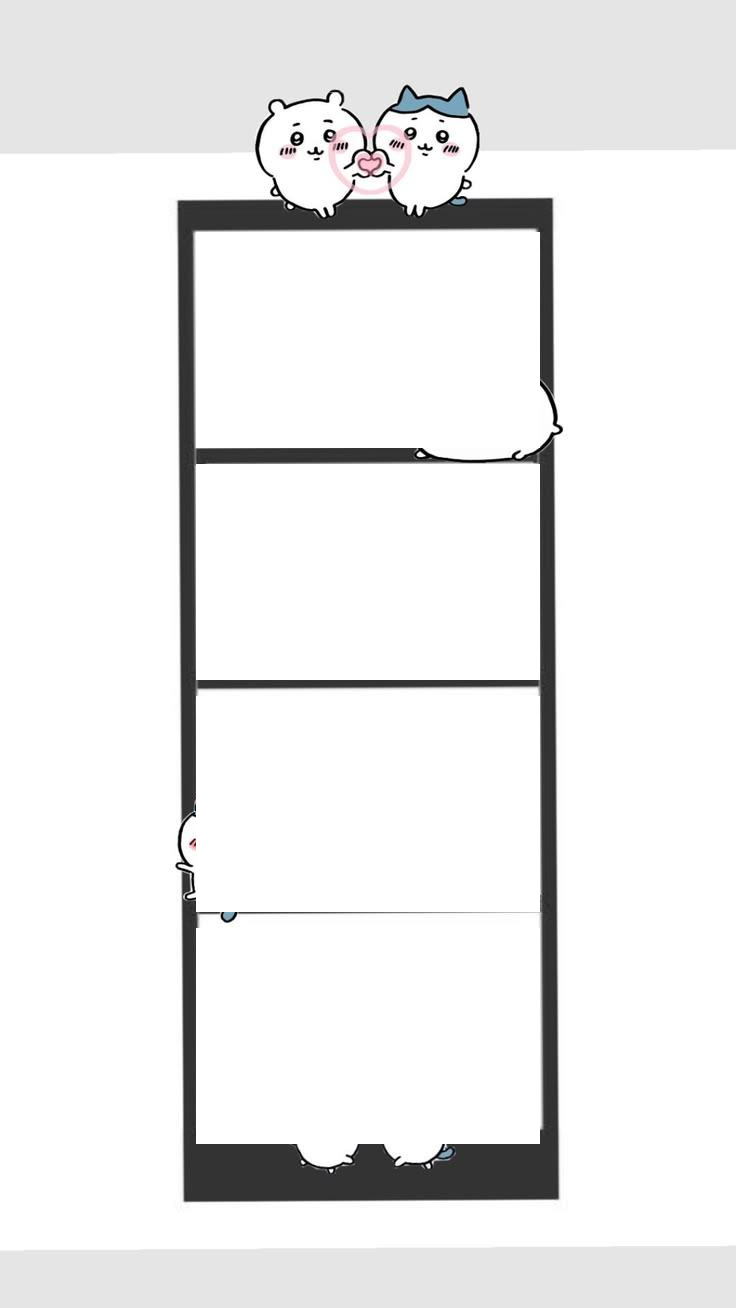
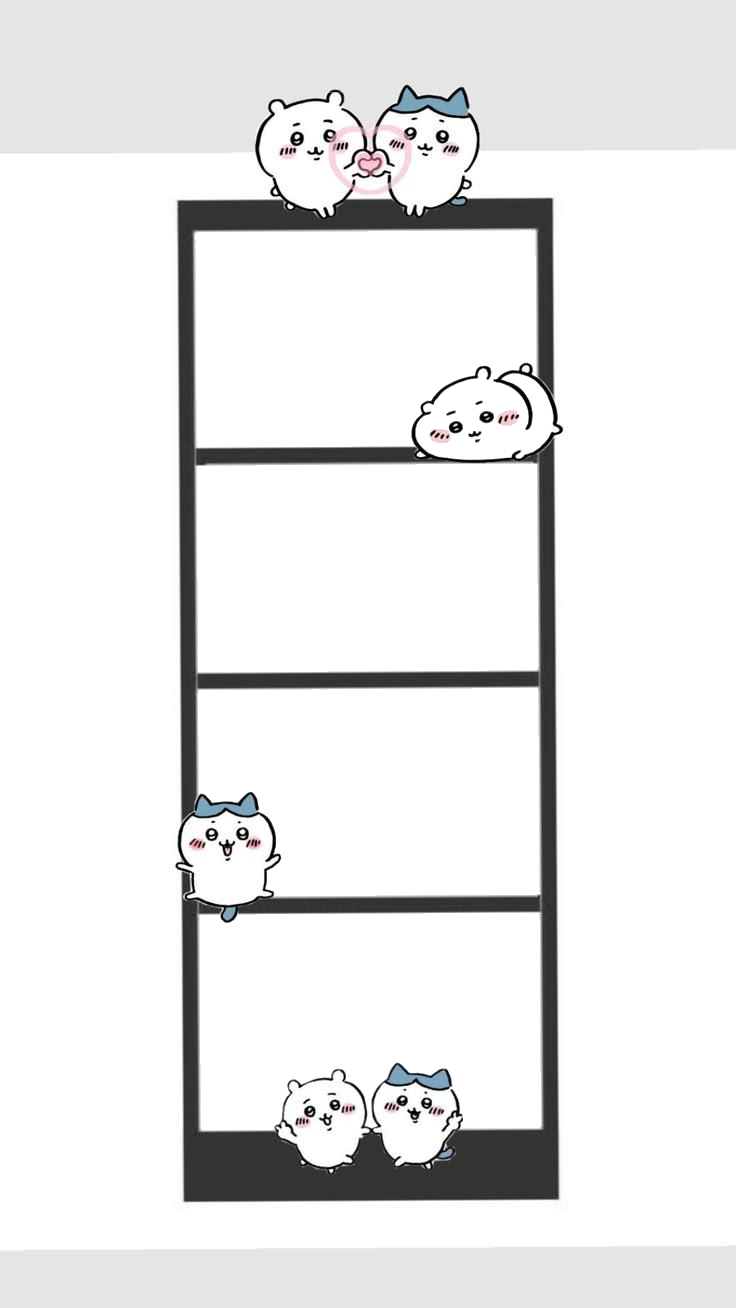
fix: Place photos strictly under frame and preserve character overlays

diff --git a/frontend/src/constants/frames.js b/frontend/src/constants/frames.js
@@ -41,10 +41,10 @@ export const PHOTO_FRAMES = [
     width: 320,
     height: 955,
     slots: [
-      { id: 0, x: 28, y: 28, width: 264, height: 184 },
-      { id: 1, x: 28, y: 224, width: 264, height: 184 },
-      { id: 2, x: 28, y: 420, width: 264, height: 192 },
-      { id: 3, x: 28, y: 628, width: 264, height: 176 },
+      { id: 0, x: 25, y: 26, width: 272, height: 191 },
+      { id: 1, x: 25, y: 220, width: 272, height: 193 },
+      { id: 2, x: 25, y: 416, width: 272, height: 203 },
+      { id: 3, x: 25, y: 623, width: 272, height: 186 },
     ],
   },
   {
@@ -57,10 +57,10 @@ export const PHOTO_FRAMES = [
     width: 320,
     height: 955,
     slots: [
-      { id: 0, x: 28, y: 36, width: 264, height: 176 },
-      { id: 1, x: 28, y: 228, width: 264, height: 184 },
-      { id: 2, x: 28, y: 424, width: 264, height: 192 },
-      { id: 3, x: 28, y: 624, width: 264, height: 184 },
+      { id: 0, x: 25, y: 30, width: 272, height: 191 },
+      { id: 1, x: 25, y: 225, width: 272, height: 191 },
+      { id: 2, x: 25, y: 420, width: 272, height: 203 },
+      { id: 3, x: 25, y: 627, width: 272, height: 185 },
     ],
   },
   {
@@ -73,10 +73,10 @@ export const PHOTO_FRAMES = [
     width: 736,
     height: 1308,
     slots: [
-      { id: 0, x: 196, y: 232, width: 344, height: 216 },
-      { id: 1, x: 196, y: 464, width: 344, height: 216 },
-      { id: 2, x: 196, y: 696, width: 344, height: 216 },
-      { id: 3, x: 196, y: 928, width: 344, height: 216 },
+      { id: 0, x: 192, y: 228, width: 354, height: 222 },
+      { id: 1, x: 192, y: 460, width: 354, height: 217 },
+      { id: 2, x: 192, y: 684, width: 354, height: 217 },
+      { id: 3, x: 192, y: 910, width: 354, height: 220 },
     ],
   },
   {
@@ -89,10 +89,10 @@ export const PHOTO_FRAMES = [
     width: 736,
     height: 1308,
     slots: [
-      { id: 0, x: 64, y: 88, width: 296, height: 280 },
-      { id: 1, x: 404, y: 436, width: 280, height: 272 },
-      { id: 2, x: 44, y: 512, width: 272, height: 264 },
-      { id: 3, x: 408, y: 876, width: 296, height: 288 },
+      { id: 0, x: 60, y: 87, width: 300, height: 292 },
+      { id: 1, x: 400, y: 433, width: 287, height: 278 },
+      { id: 2, x: 41, y: 506, width: 280, height: 273 },
+      { id: 3, x: 403, y: 874, width: 307, height: 300 },
     ],
   },
 ];

diff --git a/frontend/src/components/PhotoStrip.jsx b/frontend/src/components/PhotoStrip.jsx
@@ -13,7 +13,9 @@ export default function PhotoStrip({
 }) {
   const canvasRef = useRef(null);
   const [renderedImageUrl, setRenderedImageUrl] = useState(null);
-  const [customText, setCustomText] = useState('AI 인생네컷 • MEMORY');
+  const [customText, setCustomText] = useState(
+    frame.id.includes('film') ? 'AI 인생네컷 • MEMORY' : ''
+  );
   const [isRendering, setIsRendering] = useState(true);
 
   // 이미지 비동기 로더
